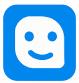
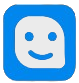
added Host:0.0.0.0

diff --git a/index.html b/index.html
@@ -2,9 +2,9 @@
 <html lang="en">
   <head>
     <meta charset="UTF-8" />
-    <link rel="icon" type="image/svg+xml" href="https://raw.githubusercontent.com/stackblitz/stackblitz-icons/master/files/visit-wise-icon.svg" />
+    <link rel="icon" type="image/svg+xml" href="/Icon.png" />
     <meta name="viewport" content="width=device-width, initial-scale=1.0" />
-    <title>VisitWise | Customer Recognition System</title>
+    <title>VisitWise</title>
     <link rel="preconnect" href="https://fonts.googleapis.com">
     <link rel="preconnect" href="https://fonts.gstatic.com" crossorigin>
     <link href="https://fonts.googleapis.com/css2?family=Inter:wght@400;500;600;700&display=swap" rel="stylesheet">

diff --git a/src/App.tsx b/src/App.tsx
@@ -7,7 +7,7 @@ import ContactPage from './pages/ContactPage';
 
 function App() {
   useEffect(() => {
-    document.title = "VisitWise | Customer Recognition System";
+    document.title = "VisitWise";
   }, []);
 
   return (

diff --git a/vite.config.ts b/vite.config.ts
@@ -7,4 +7,8 @@ export default defineConfig({
   optimizeDeps: {
     exclude: ['lucide-react'],
   },
+  server: {
+    host: '0.0.0.0',  // 👈 Add this line
+    port: 3000         
+},
 });
